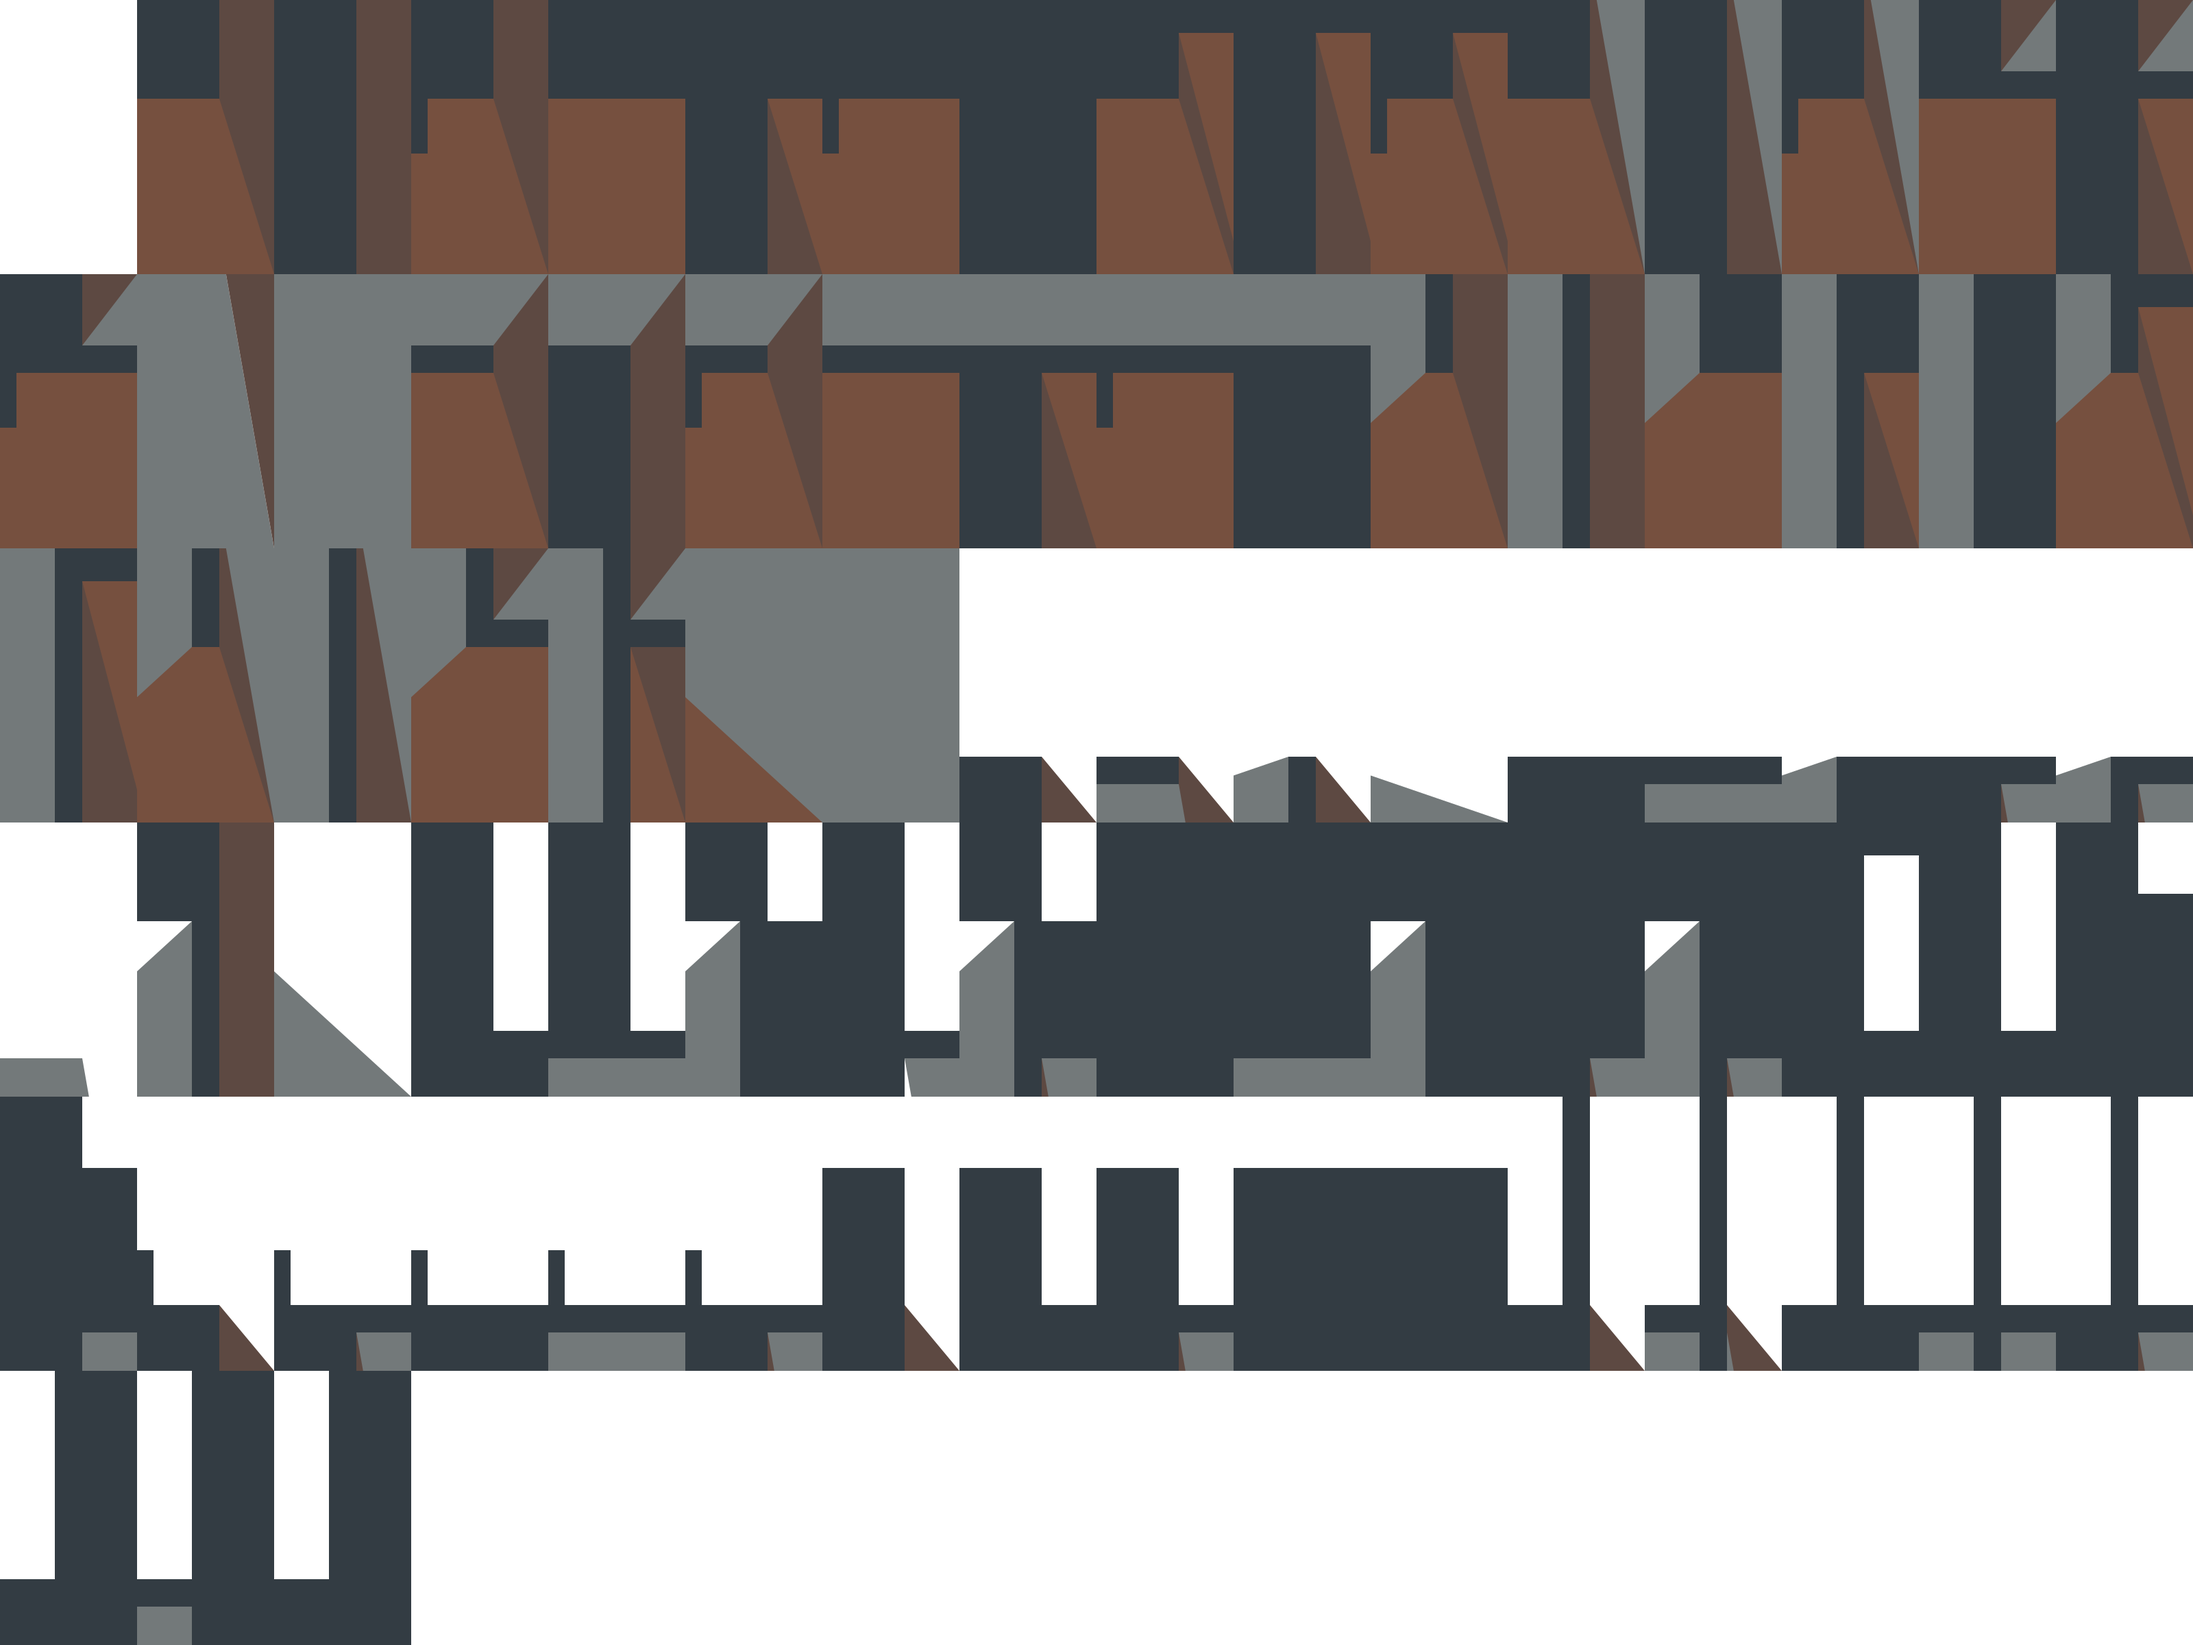
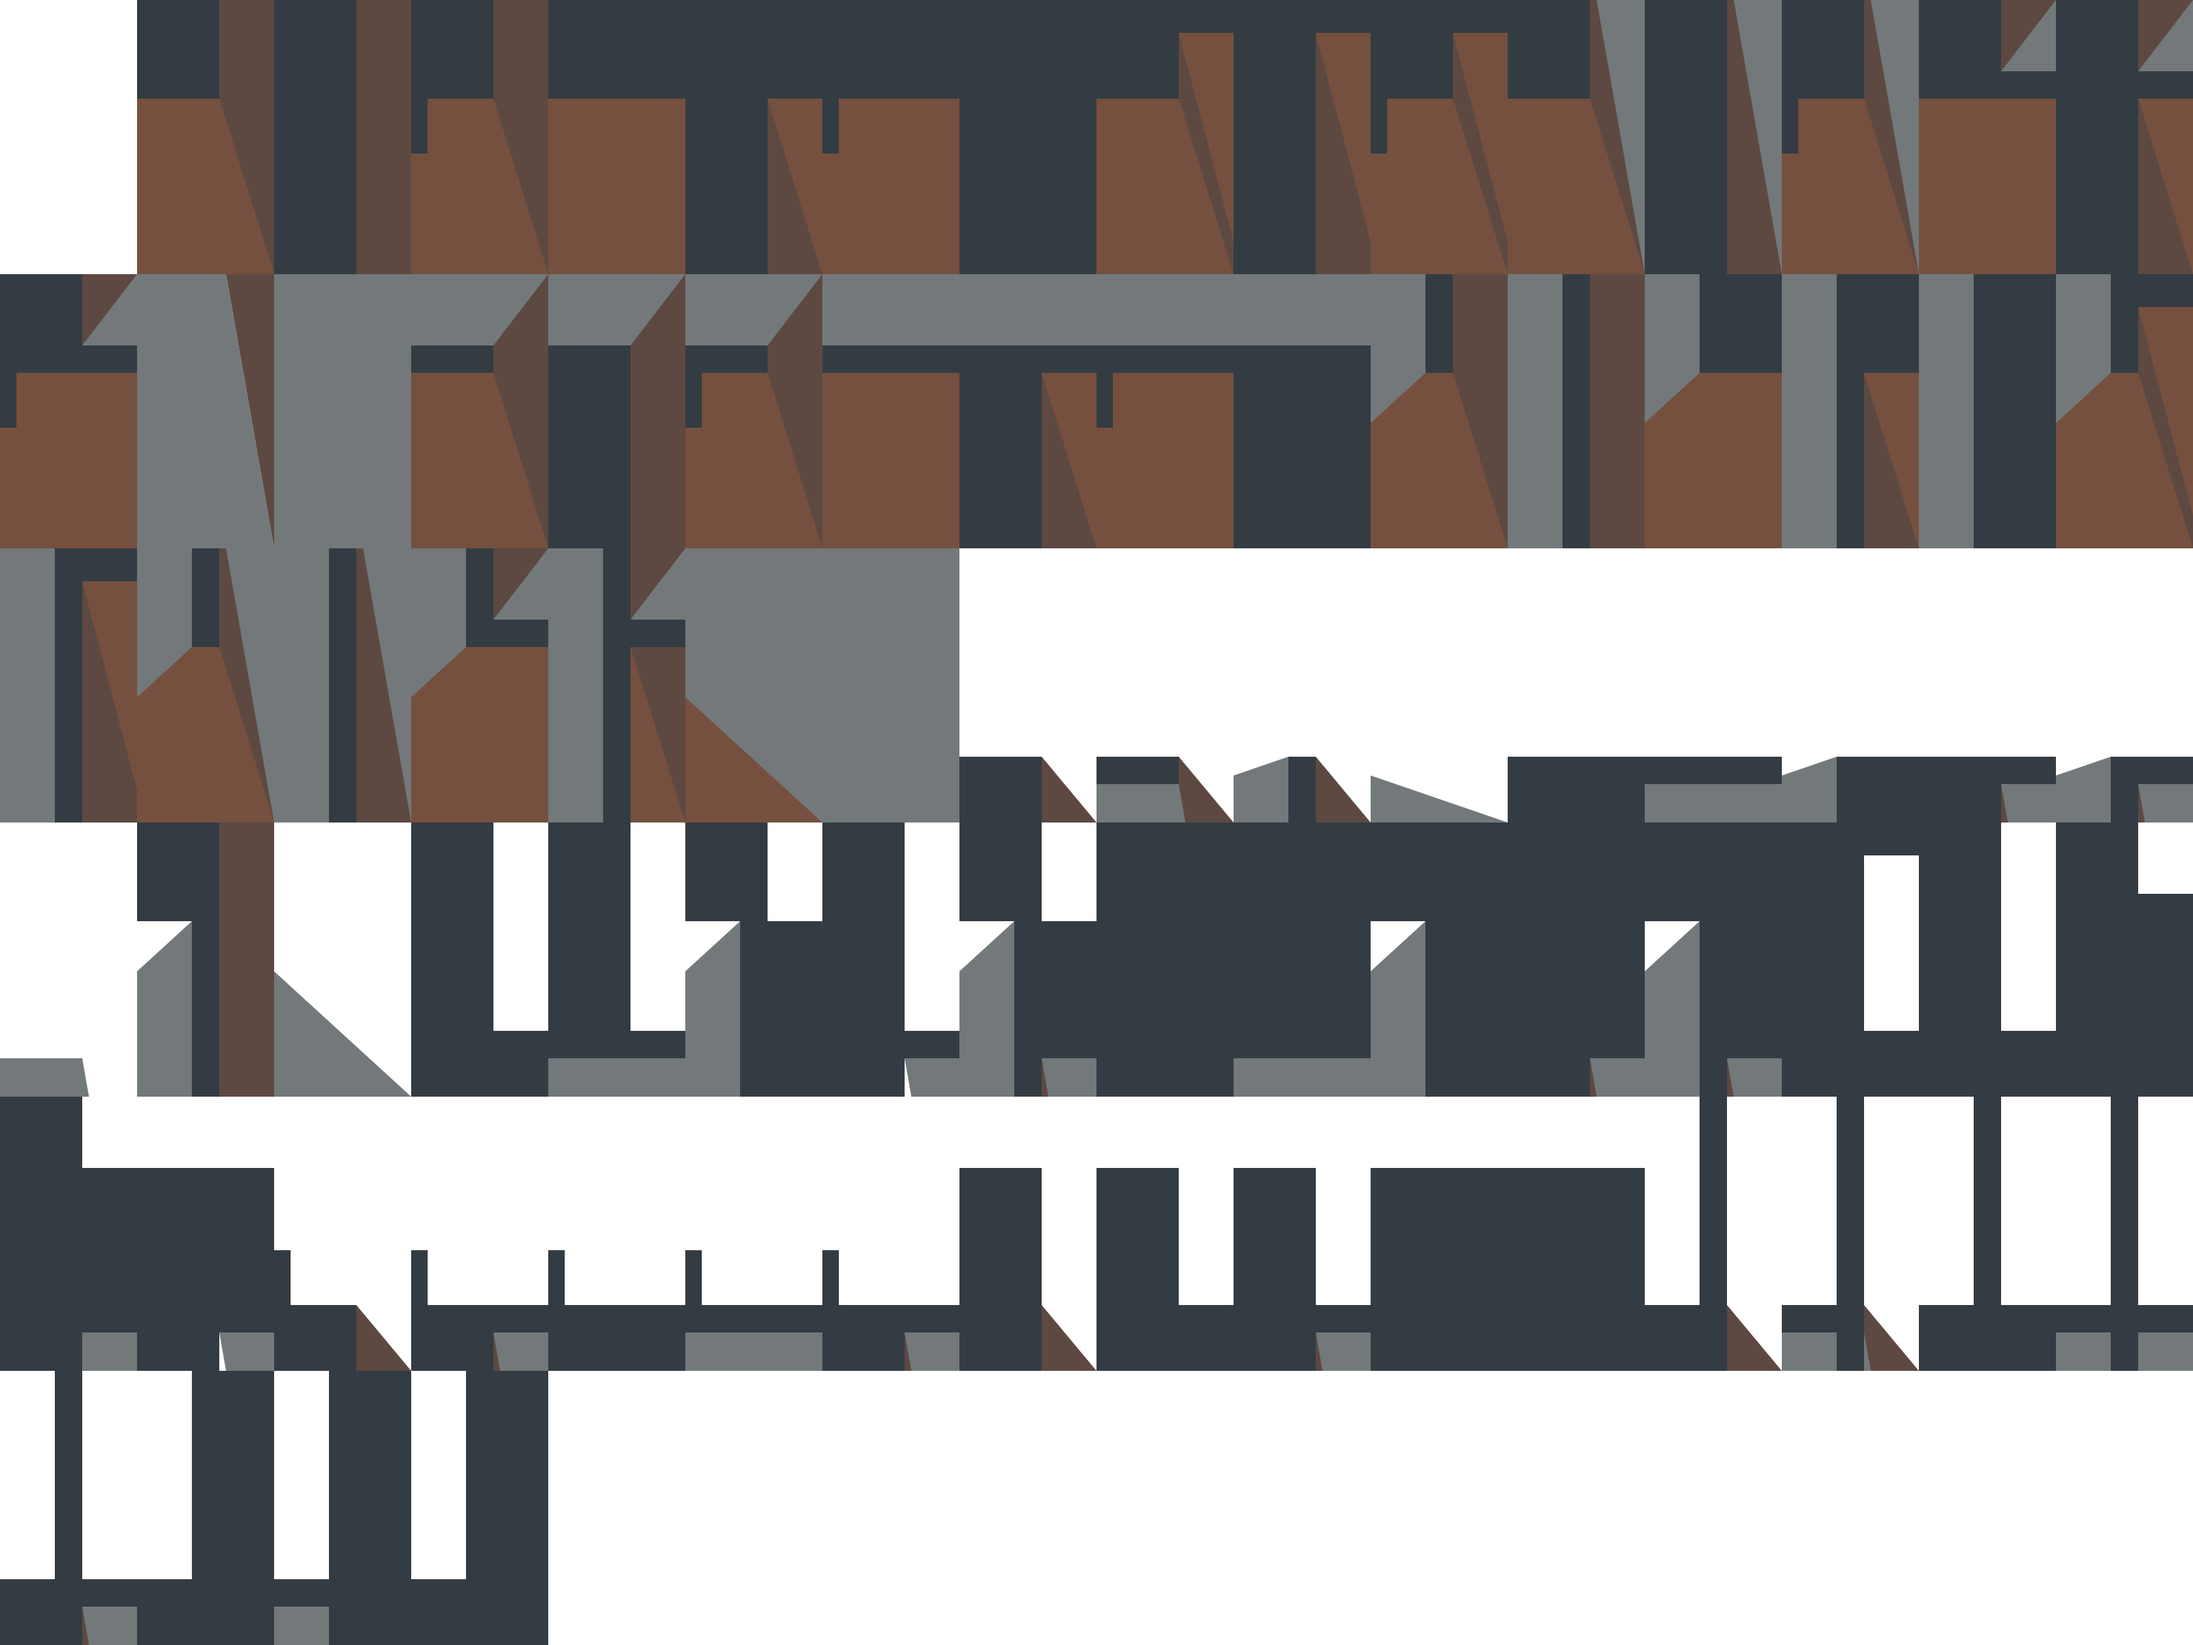
wip

diff --git a/wdn-enumerate/src/ids.rs b/wdn-enumerate/src/ids.rs
@@ -77,24 +77,25 @@ impl TopSprite {
             TopSprite::Wall { adjacency: Adjacency::Horizontal, east: TopSpriteEast::None, north: TopSpriteNorth::None, overlap: OverlapBase::WallVerticalEastStairN } => 62,
             TopSprite::Wall { adjacency: Adjacency::Horizontal, east: TopSpriteEast::None, north: TopSpriteNorth::None, overlap: OverlapBase::WallVerticalEastStairS } => 63,
             TopSprite::StairN { adjacency: Adjacency::Full, north: TopSpriteNorth::None, overlap: OverlapBase::WallVerticalEastStairS } => 64,
-            TopSprite::Wall { adjacency: Adjacency::Corner, east: TopSpriteEast::None, north: TopSpriteNorth::Door, overlap: OverlapBase::None } => 65,
-            TopSprite::StairN { adjacency: Adjacency::Corner, north: TopSpriteNorth::Door, overlap: OverlapBase::None } => 66,
-            TopSprite::Wall { adjacency: Adjacency::Horizontal, east: TopSpriteEast::None, north: TopSpriteNorth::Door, overlap: OverlapBase::None } => 67,
-            TopSprite::StairN { adjacency: Adjacency::Horizontal, north: TopSpriteNorth::Door, overlap: OverlapBase::None } => 68,
-            TopSprite::Wall { adjacency: Adjacency::Corner, east: TopSpriteEast::StairN, north: TopSpriteNorth::Door, overlap: OverlapBase::None } => 69,
-            TopSprite::Wall { adjacency: Adjacency::Corner, east: TopSpriteEast::None, north: TopSpriteNorth::None, overlap: OverlapBase::StairSouthVertical } => 70,
-            TopSprite::Wall { adjacency: Adjacency::Horizontal, east: TopSpriteEast::None, north: TopSpriteNorth::None, overlap: OverlapBase::StairSouthVertical } => 71,
-            TopSprite::Wall { adjacency: Adjacency::Corner, east: TopSpriteEast::StairN, north: TopSpriteNorth::None, overlap: OverlapBase::StairSouthVertical } => 72,
-            TopSprite::Wall { adjacency: Adjacency::Horizontal, east: TopSpriteEast::None, north: TopSpriteNorth::None, overlap: OverlapBase::StairSouthFull } => 73,
-            TopSprite::Wall { adjacency: Adjacency::Corner, east: TopSpriteEast::StairN, north: TopSpriteNorth::None, overlap: OverlapBase::StairSouthFull } => 74,
-            TopSprite::Wall { adjacency: Adjacency::Corner, east: TopSpriteEast::None, north: TopSpriteNorth::None, overlap: OverlapBase::StairEastVertical } => 75,
-            TopSprite::StairN { adjacency: Adjacency::Corner, north: TopSpriteNorth::None, overlap: OverlapBase::StairEastVertical } => 76,
-            TopSprite::Wall { adjacency: Adjacency::Horizontal, east: TopSpriteEast::None, north: TopSpriteNorth::None, overlap: OverlapBase::StairEastVertical } => 77,
-            TopSprite::StairN { adjacency: Adjacency::Horizontal, north: TopSpriteNorth::None, overlap: OverlapBase::StairEastVertical } => 78,
-            TopSprite::Wall { adjacency: Adjacency::Corner, east: TopSpriteEast::StairN, north: TopSpriteNorth::None, overlap: OverlapBase::StairEastVertical } => 79,
-            TopSprite::Wall { adjacency: Adjacency::Horizontal, east: TopSpriteEast::None, north: TopSpriteNorth::None, overlap: OverlapBase::StairEastFull } => 80,
-            TopSprite::StairN { adjacency: Adjacency::Horizontal, north: TopSpriteNorth::None, overlap: OverlapBase::StairEastFull } => 81,
-            TopSprite::Wall { adjacency: Adjacency::Corner, east: TopSpriteEast::StairN, north: TopSpriteNorth::None, overlap: OverlapBase::StairEastFull } => 82,
+            TopSprite::Empty { east: TopSpriteEast::StairN, overlap: OverlapBase::WallVerticalEastStairS } => 65,
+            TopSprite::Wall { adjacency: Adjacency::Corner, east: TopSpriteEast::None, north: TopSpriteNorth::Door, overlap: OverlapBase::None } => 66,
+            TopSprite::StairN { adjacency: Adjacency::Corner, north: TopSpriteNorth::Door, overlap: OverlapBase::None } => 67,
+            TopSprite::Wall { adjacency: Adjacency::Horizontal, east: TopSpriteEast::None, north: TopSpriteNorth::Door, overlap: OverlapBase::None } => 68,
+            TopSprite::StairN { adjacency: Adjacency::Horizontal, north: TopSpriteNorth::Door, overlap: OverlapBase::None } => 69,
+            TopSprite::Wall { adjacency: Adjacency::Corner, east: TopSpriteEast::StairN, north: TopSpriteNorth::Door, overlap: OverlapBase::None } => 70,
+            TopSprite::Wall { adjacency: Adjacency::Corner, east: TopSpriteEast::None, north: TopSpriteNorth::None, overlap: OverlapBase::StairSouthVertical } => 71,
+            TopSprite::Wall { adjacency: Adjacency::Horizontal, east: TopSpriteEast::None, north: TopSpriteNorth::None, overlap: OverlapBase::StairSouthVertical } => 72,
+            TopSprite::Wall { adjacency: Adjacency::Corner, east: TopSpriteEast::StairN, north: TopSpriteNorth::None, overlap: OverlapBase::StairSouthVertical } => 73,
+            TopSprite::Wall { adjacency: Adjacency::Horizontal, east: TopSpriteEast::None, north: TopSpriteNorth::None, overlap: OverlapBase::StairSouthFull } => 74,
+            TopSprite::Wall { adjacency: Adjacency::Corner, east: TopSpriteEast::StairN, north: TopSpriteNorth::None, overlap: OverlapBase::StairSouthFull } => 75,
+            TopSprite::Wall { adjacency: Adjacency::Corner, east: TopSpriteEast::None, north: TopSpriteNorth::None, overlap: OverlapBase::StairEastVertical } => 76,
+            TopSprite::StairN { adjacency: Adjacency::Corner, north: TopSpriteNorth::None, overlap: OverlapBase::StairEastVertical } => 77,
+            TopSprite::Wall { adjacency: Adjacency::Horizontal, east: TopSpriteEast::None, north: TopSpriteNorth::None, overlap: OverlapBase::StairEastVertical } => 78,
+            TopSprite::StairN { adjacency: Adjacency::Horizontal, north: TopSpriteNorth::None, overlap: OverlapBase::StairEastVertical } => 79,
+            TopSprite::Wall { adjacency: Adjacency::Corner, east: TopSpriteEast::StairN, north: TopSpriteNorth::None, overlap: OverlapBase::StairEastVertical } => 80,
+            TopSprite::Wall { adjacency: Adjacency::Horizontal, east: TopSpriteEast::None, north: TopSpriteNorth::None, overlap: OverlapBase::StairEastFull } => 81,
+            TopSprite::StairN { adjacency: Adjacency::Horizontal, north: TopSpriteNorth::None, overlap: OverlapBase::StairEastFull } => 82,
+            TopSprite::Wall { adjacency: Adjacency::Corner, east: TopSpriteEast::StairN, north: TopSpriteNorth::None, overlap: OverlapBase::StairEastFull } => 83,
             _ => unreachable!("id() called on a sprite not produced by the enumerator: {self:?}"),
         }
     }

diff --git a/wdn-render/src/tile/wall.rs b/wdn-render/src/tile/wall.rs
@@ -75,25 +75,26 @@ const TOP_WALLHORIZONTAL_OVERWALLVERTICALEASTSTAIRNORTH: u16 = 62;
 const TOP_WALLHORIZONTAL_OVERWALLVERTICALEASTSTAIRSOUTH: u16 = 63;
 
 const TOP_STAIRNORTHFULL_OVERWALLVERTICALEASTSTAIRSOUTH: u16 = 64;
-const TOP_WALLCORNER_NORTHDOOR: u16 = 65;
-const TOP_STAIRNORTHCORNER_NORTHDOOR: u16 = 66;
-const TOP_WALLHORIZONTAL_NORTHDOOR: u16 = 67;
-const TOP_STAIRNORTHHORIZONTAL_NORTHDOOR: u16 = 68;
-const TOP_WALLCORNER_EASTSTAIRNORTH_NORTHDOOR: u16 = 69;
-const TOP_WALLCORNER_OVERSTAIRSOUTHVERTICAL: u16 = 70;
-const TOP_WALLHORIZONTAL_OVERSTAIRSOUTHVERTICAL: u16 = 71;
-const TOP_WALLCORNER_EASTSTAIRNORTH_OVERSTAIRSOUTHVERTICAL: u16 = 72;
-const TOP_WALLHORIZONTAL_OVERSTAIRSOUTHFULL: u16 = 73;
-const TOP_WALLCORNER_EASTSTAIRNORTH_OVERSTAIRSOUTHFULL: u16 = 74;
-const TOP_WALLCORNER_OVERSTAIREASTVERTICAL: u16 = 75;
-const TOP_STAIRNORTHCORNER_OVERSTAIREASTVERTICAL: u16 = 76;
-const TOP_WALLHORIZONTAL_OVERSTAIREASTVERTICAL: u16 = 77;
-const TOP_STAIRNORTHHORIZONTAL_OVERSTAIREASTVERTICAL: u16 = 78;
-const TOP_WALLCORNER_EASTSTAIRNORTH_OVERSTAIREASTVERTICAL: u16 = 79;
+const TOP_EMPTY_EASTSTAIRNORTH_OVERWALLVERTICALEASTSTAIRSOUTH: u16 = 65;
+const TOP_WALLCORNER_NORTHDOOR: u16 = 66;
+const TOP_STAIRNORTHCORNER_NORTHDOOR: u16 = 67;
+const TOP_WALLHORIZONTAL_NORTHDOOR: u16 = 68;
+const TOP_STAIRNORTHHORIZONTAL_NORTHDOOR: u16 = 69;
+const TOP_WALLCORNER_EASTSTAIRNORTH_NORTHDOOR: u16 = 70;
+const TOP_WALLCORNER_OVERSTAIRSOUTHVERTICAL: u16 = 71;
+const TOP_WALLHORIZONTAL_OVERSTAIRSOUTHVERTICAL: u16 = 72;
+const TOP_WALLCORNER_EASTSTAIRNORTH_OVERSTAIRSOUTHVERTICAL: u16 = 73;
+const TOP_WALLHORIZONTAL_OVERSTAIRSOUTHFULL: u16 = 74;
+const TOP_WALLCORNER_EASTSTAIRNORTH_OVERSTAIRSOUTHFULL: u16 = 75;
+const TOP_WALLCORNER_OVERSTAIREASTVERTICAL: u16 = 76;
+const TOP_STAIRNORTHCORNER_OVERSTAIREASTVERTICAL: u16 = 77;
+const TOP_WALLHORIZONTAL_OVERSTAIREASTVERTICAL: u16 = 78;
+const TOP_STAIRNORTHHORIZONTAL_OVERSTAIREASTVERTICAL: u16 = 79;
 
-const TOP_WALLHORIZONTAL_OVERSTAIREASTFULL: u16 = 80;
-const TOP_STAIRNORTHHORIZONTAL_OVERSTAIREASTFULL: u16 = 81;
-const TOP_WALLCORNER_EASTSTAIRNORTH_OVERSTAIREASTFULL: u16 = 82;
+const TOP_WALLCORNER_EASTSTAIRNORTH_OVERSTAIREASTVERTICAL: u16 = 80;
+const TOP_WALLHORIZONTAL_OVERSTAIREASTFULL: u16 = 81;
+const TOP_STAIRNORTHHORIZONTAL_OVERSTAIREASTFULL: u16 = 82;
+const TOP_WALLCORNER_EASTSTAIRNORTH_OVERSTAIREASTFULL: u16 = 83;
 
 #[derive(Hash, Eq, PartialEq, Clone, Copy, Debug)]
 enum TileVariant {
@@ -333,7 +334,7 @@ fn resolve_top(
         (StairS | Wall, DoorH | DoorV | Empty | StairE | StairN, StairW | Wall, StairE) => {
             TOP_STAIREASTFULL_OVERWALLCORNER
         }
-        (Wall, DoorH | DoorV | Empty | StairE | StairN | StairS, StairN, Wall)
+        (Wall, DoorH | DoorV | Empty | StairE | StairN, StairN, Wall)
         | (StairE, DoorH | DoorV | Empty | StairE | StairN | StairS, StairN, StairE) => {
             TOP_EMPTY_EASTSTAIRNORTH_OVERWALLVERTICAL
         }
@@ -358,6 +359,7 @@ fn resolve_top(
         (Wall, StairS, StairN | StairW | Wall, StairN) => {
             TOP_STAIRNORTHFULL_OVERWALLVERTICALEASTSTAIRSOUTH
         }
+        (Wall, StairS, StairN, Wall) => TOP_EMPTY_EASTSTAIRNORTH_OVERWALLVERTICALEASTSTAIRSOUTH,
         (DoorV, _, DoorH | DoorV | Empty | StairE | StairS, Wall) => TOP_WALLCORNER_NORTHDOOR,
         (DoorV, _, DoorH | DoorV | Empty | StairE | StairS, StairN) => {
             TOP_STAIRNORTHCORNER_NORTHDOOR

diff --git a/consts.rs b/consts.rs
@@ -67,22 +67,23 @@ const TOP_WALLHORIZONTAL_OVERWALLVERTICALEASTSTAIRNORTH: u16 = 62;
 const TOP_WALLHORIZONTAL_OVERWALLVERTICALEASTSTAIRSOUTH: u16 = 63;
 
 const TOP_STAIRNORTHFULL_OVERWALLVERTICALEASTSTAIRSOUTH: u16 = 64;
-const TOP_WALLCORNER_NORTHDOOR: u16 = 65;
-const TOP_STAIRNORTHCORNER_NORTHDOOR: u16 = 66;
-const TOP_WALLHORIZONTAL_NORTHDOOR: u16 = 67;
-const TOP_STAIRNORTHHORIZONTAL_NORTHDOOR: u16 = 68;
-const TOP_WALLCORNER_EASTSTAIRNORTH_NORTHDOOR: u16 = 69;
-const TOP_WALLCORNER_OVERSTAIRSOUTHVERTICAL: u16 = 70;
-const TOP_WALLHORIZONTAL_OVERSTAIRSOUTHVERTICAL: u16 = 71;
-const TOP_WALLCORNER_EASTSTAIRNORTH_OVERSTAIRSOUTHVERTICAL: u16 = 72;
-const TOP_WALLHORIZONTAL_OVERSTAIRSOUTHFULL: u16 = 73;
-const TOP_WALLCORNER_EASTSTAIRNORTH_OVERSTAIRSOUTHFULL: u16 = 74;
-const TOP_WALLCORNER_OVERSTAIREASTVERTICAL: u16 = 75;
-const TOP_STAIRNORTHCORNER_OVERSTAIREASTVERTICAL: u16 = 76;
-const TOP_WALLHORIZONTAL_OVERSTAIREASTVERTICAL: u16 = 77;
-const TOP_STAIRNORTHHORIZONTAL_OVERSTAIREASTVERTICAL: u16 = 78;
-const TOP_WALLCORNER_EASTSTAIRNORTH_OVERSTAIREASTVERTICAL: u16 = 79;
+const TOP_EMPTY_EASTSTAIRNORTH_OVERWALLVERTICALEASTSTAIRSOUTH: u16 = 65;
+const TOP_WALLCORNER_NORTHDOOR: u16 = 66;
+const TOP_STAIRNORTHCORNER_NORTHDOOR: u16 = 67;
+const TOP_WALLHORIZONTAL_NORTHDOOR: u16 = 68;
+const TOP_STAIRNORTHHORIZONTAL_NORTHDOOR: u16 = 69;
+const TOP_WALLCORNER_EASTSTAIRNORTH_NORTHDOOR: u16 = 70;
+const TOP_WALLCORNER_OVERSTAIRSOUTHVERTICAL: u16 = 71;
+const TOP_WALLHORIZONTAL_OVERSTAIRSOUTHVERTICAL: u16 = 72;
+const TOP_WALLCORNER_EASTSTAIRNORTH_OVERSTAIRSOUTHVERTICAL: u16 = 73;
+const TOP_WALLHORIZONTAL_OVERSTAIRSOUTHFULL: u16 = 74;
+const TOP_WALLCORNER_EASTSTAIRNORTH_OVERSTAIRSOUTHFULL: u16 = 75;
+const TOP_WALLCORNER_OVERSTAIREASTVERTICAL: u16 = 76;
+const TOP_STAIRNORTHCORNER_OVERSTAIREASTVERTICAL: u16 = 77;
+const TOP_WALLHORIZONTAL_OVERSTAIREASTVERTICAL: u16 = 78;
+const TOP_STAIRNORTHHORIZONTAL_OVERSTAIREASTVERTICAL: u16 = 79;
 
-const TOP_WALLHORIZONTAL_OVERSTAIREASTFULL: u16 = 80;
-const TOP_STAIRNORTHHORIZONTAL_OVERSTAIREASTFULL: u16 = 81;
-const TOP_WALLCORNER_EASTSTAIRNORTH_OVERSTAIREASTFULL: u16 = 82;
+const TOP_WALLCORNER_EASTSTAIRNORTH_OVERSTAIREASTVERTICAL: u16 = 80;
+const TOP_WALLHORIZONTAL_OVERSTAIREASTFULL: u16 = 81;
+const TOP_STAIRNORTHHORIZONTAL_OVERSTAIREASTFULL: u16 = 82;
+const TOP_WALLCORNER_EASTSTAIRNORTH_OVERSTAIREASTFULL: u16 = 83;

diff --git a/wdn-enumerate/src/lib.rs b/wdn-enumerate/src/lib.rs
@@ -372,7 +372,6 @@ impl TopSprite {
                     OverlapBase::StairEastFull => OverlapBase::WallFull,
                     OverlapBase::WallVerticalEastDoor
                     | OverlapBase::WallVerticalEastStairN
-                    | OverlapBase::WallVerticalEastStairS
                     | OverlapBase::StairEastVertical
                     | OverlapBase::StairEastVerticalEastDoor
                     | OverlapBase::StairEastVerticalEastStairN
